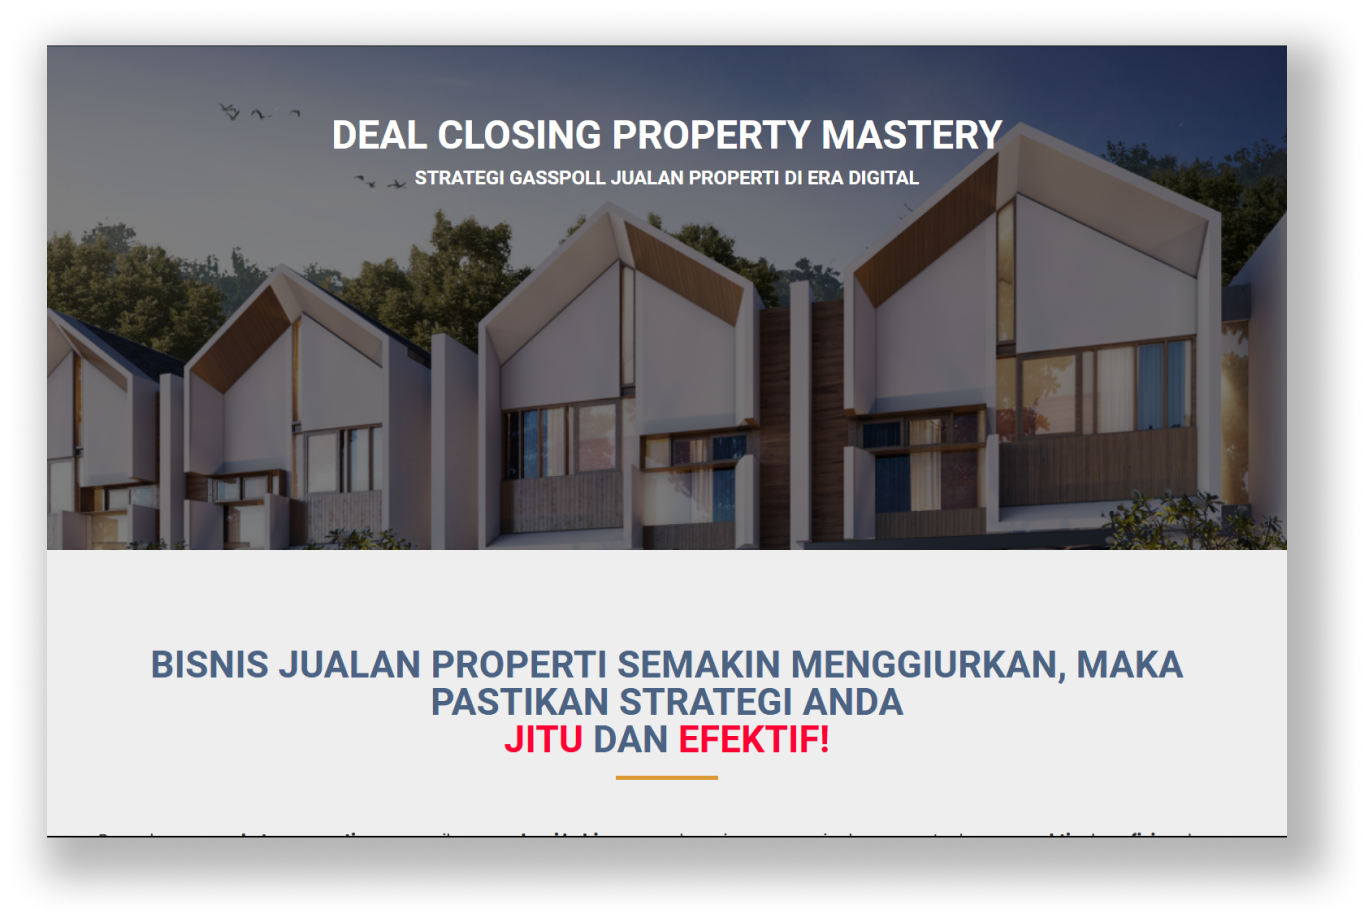
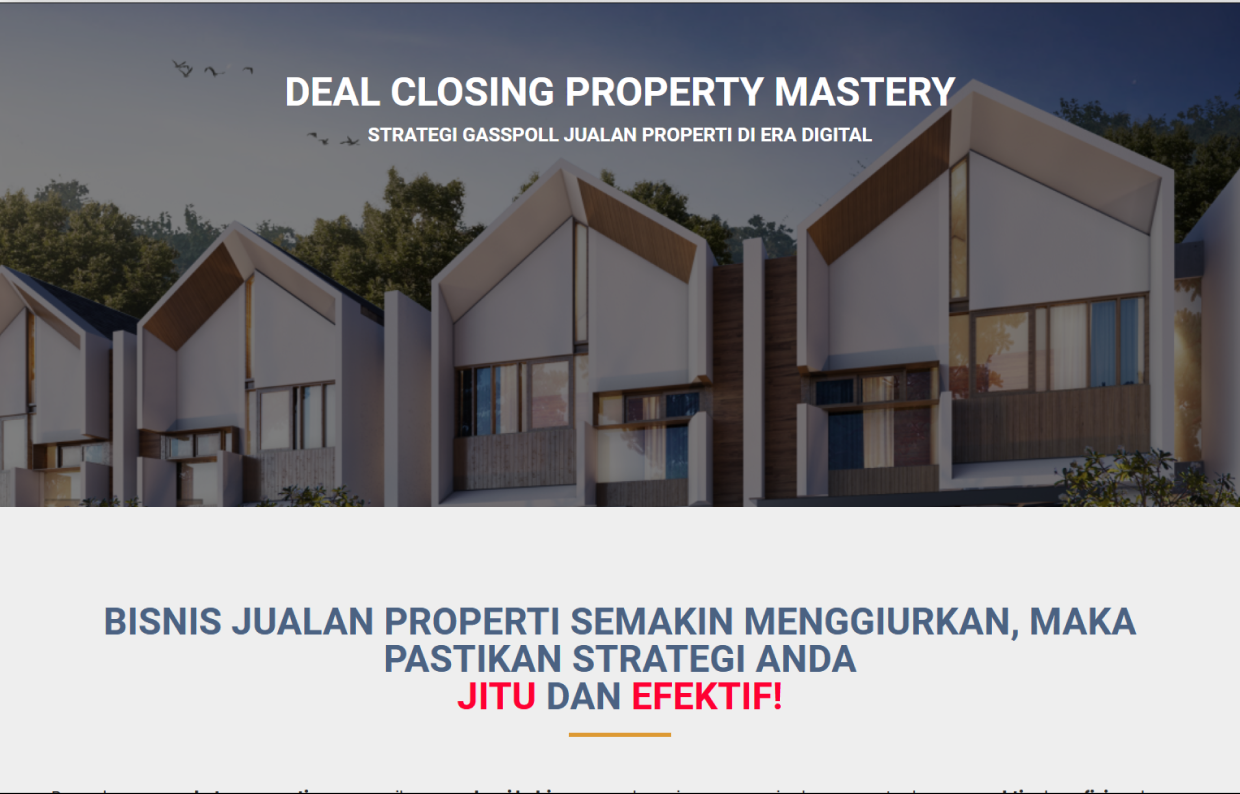
Fix few layout bugs

diff --git a/components/navbar.js b/components/navbar.js
@@ -30,9 +30,9 @@ export default function Navbar() {
           </div>
           <div className="md:hidden sm:hidden lg:block xl:block">
             <div className="flex items-baseline ml-10 space-x-4">
-              <a href="#" className={`px-3 py-2 text-sm font-medium rounded-md ${router.pathname === '/' ? 'text-yellow-500' : 'text-white'}`}>H</a>
-              <a href="#" className="px-3 py-2 text-sm font-medium text-white rounded-md">Project</a>
-              <a href="#" className="px-3 py-2 text-sm font-medium text-white rounded-md">Download CV</a>
+              <a href="#" className={`px-3 py-2 font-medium font-sans no-underline rounded-md ${router.pathname === '/' ? 'text-yellow' : 'text-white'}`}>Home</a>
+              <a href="#" className="px-3 py-2 text-sm font-medium font-sans no-underline text-white rounded-md hover:text-yellow">Project</a>
+              <a href="#" className="px-3 py-2 text-sm font-medium font-sans no-underline text-white rounded-md hover:text-yellow">Download CV</a>
             </div>
           </div>
           <div className="flex items-center sm:block md:hidden lg:hidden xl:hidden">

diff --git a/components/container-biodata-headers.js b/components/container-biodata-headers.js
@@ -3,7 +3,7 @@ import { Typewriter, Cursor } from "react-simple-typewriter";
 const ContainerBiodataHeaders = () => {
 
   return (
-    <div className="self-stretch overflow-hidden flex flex-row flex-wrap items-center justify-center pt-10 px-[6.25rem] pb-[2.44rem] z-[5] text-left text-[1.5rem] text-white font-open-sans sm:py-[3rem] sm:px-[2rem] sm:pt-[4rem] md:pt-[5rem] sm:box-border">
+    <div className="self-stretch overflow-hidden flex flex-row flex-wrap items-center justify-center pt-10 px-[6.25rem] pb-[2.44rem] z-[5] text-left text-[1.5rem] text-white font-open-sans sm:py-[3rem] sm:px-[2rem] sm:pt-[10rem] md:pt-[5rem] sm:box-border">
       <div className="flex-1 flex flex-col items-start justify-center gap-[0.06rem] min-w-[24.38rem] z-[1]">
         <div className="relative font-medium lg:font-medium lg:font-open-sans sm:text-[1rem]">
           Hey, I’am

diff --git a/pages/index.js b/pages/index.js
@@ -47,7 +47,7 @@ const ResponsiveLandingPage = () => {
         </div>
         <div className="self-stretch [background:linear-gradient(99.48deg,_#f4d538,_#fc9e47)] overflow-hidden flex flex-row flex-wrap items-start justify-center py-[2.63rem] px-[3.94rem] gap-[2.5rem] text-darkslategray-200">
           <img
-            className="relative w-[46.63rem] h-[32.94rem] object-cover sm:w-full sm:h-full sm:min-w-[25rem]"
+            className="relative w-[46.63rem] h-[32.94rem] object-cover sm:w-full sm:h-full sm:max-w-[30rem] sm:flex-1"
             alt=""
             src="/homepage-1@2x.png"
           />

diff --git a/tailwind.config.js b/tailwind.config.js
@@ -46,7 +46,7 @@ module.exports = {
     },
     screens: {
       xl: {
-        max: "1440px",
+        max: "2040px",
       },
       lg: {
         max: "1280px",
